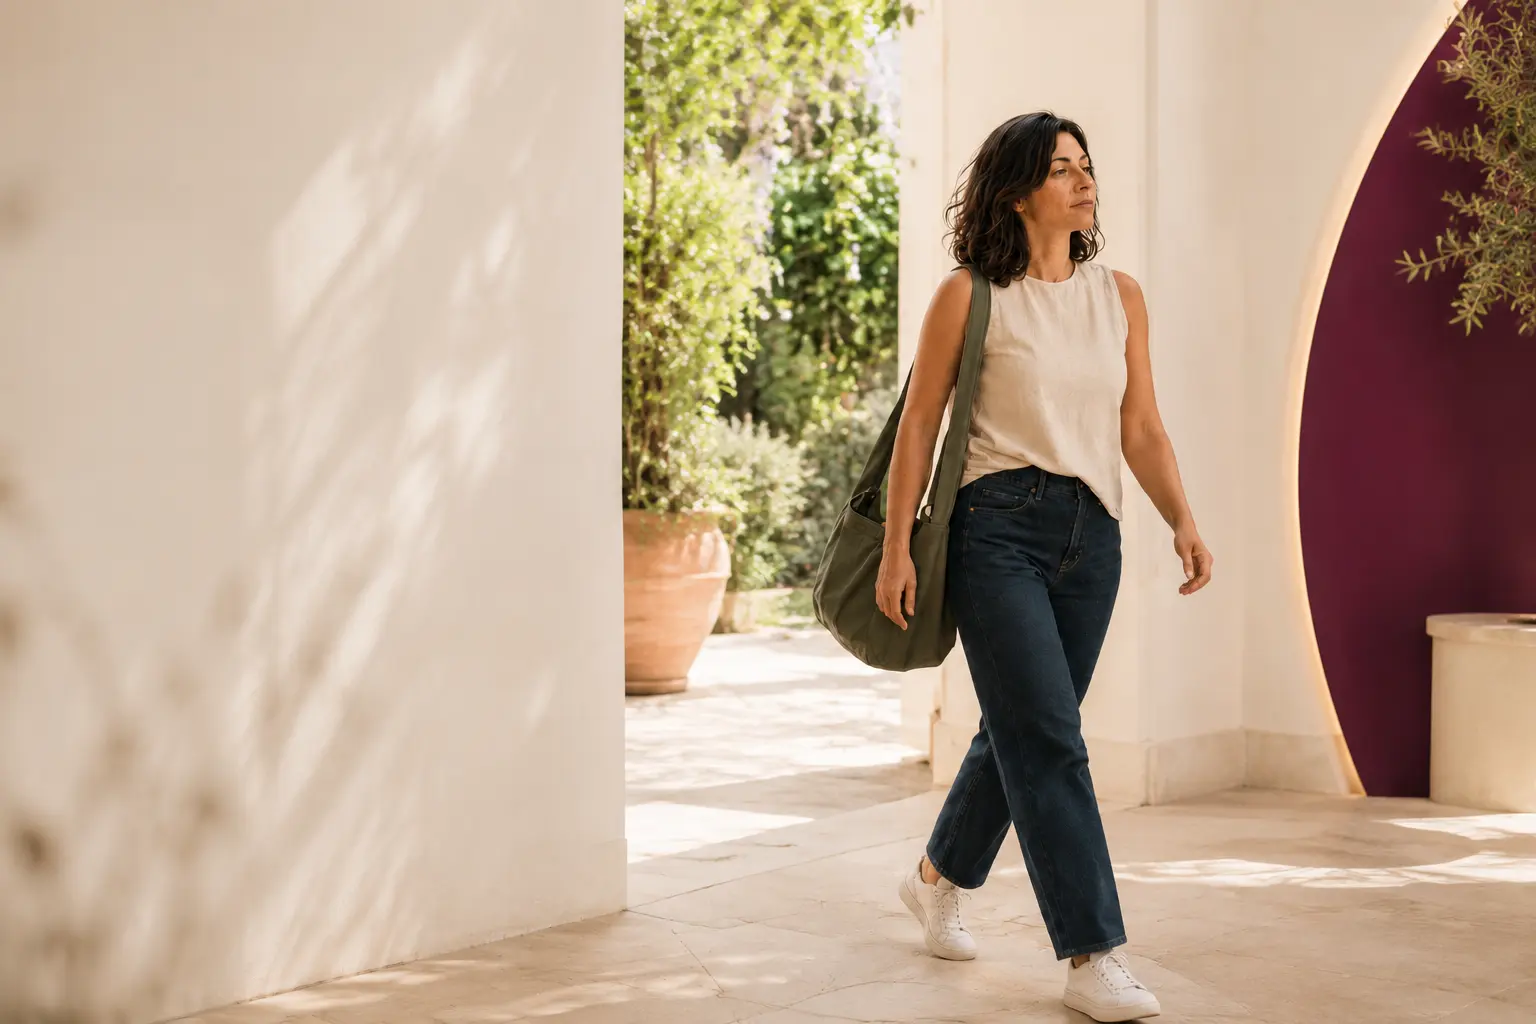
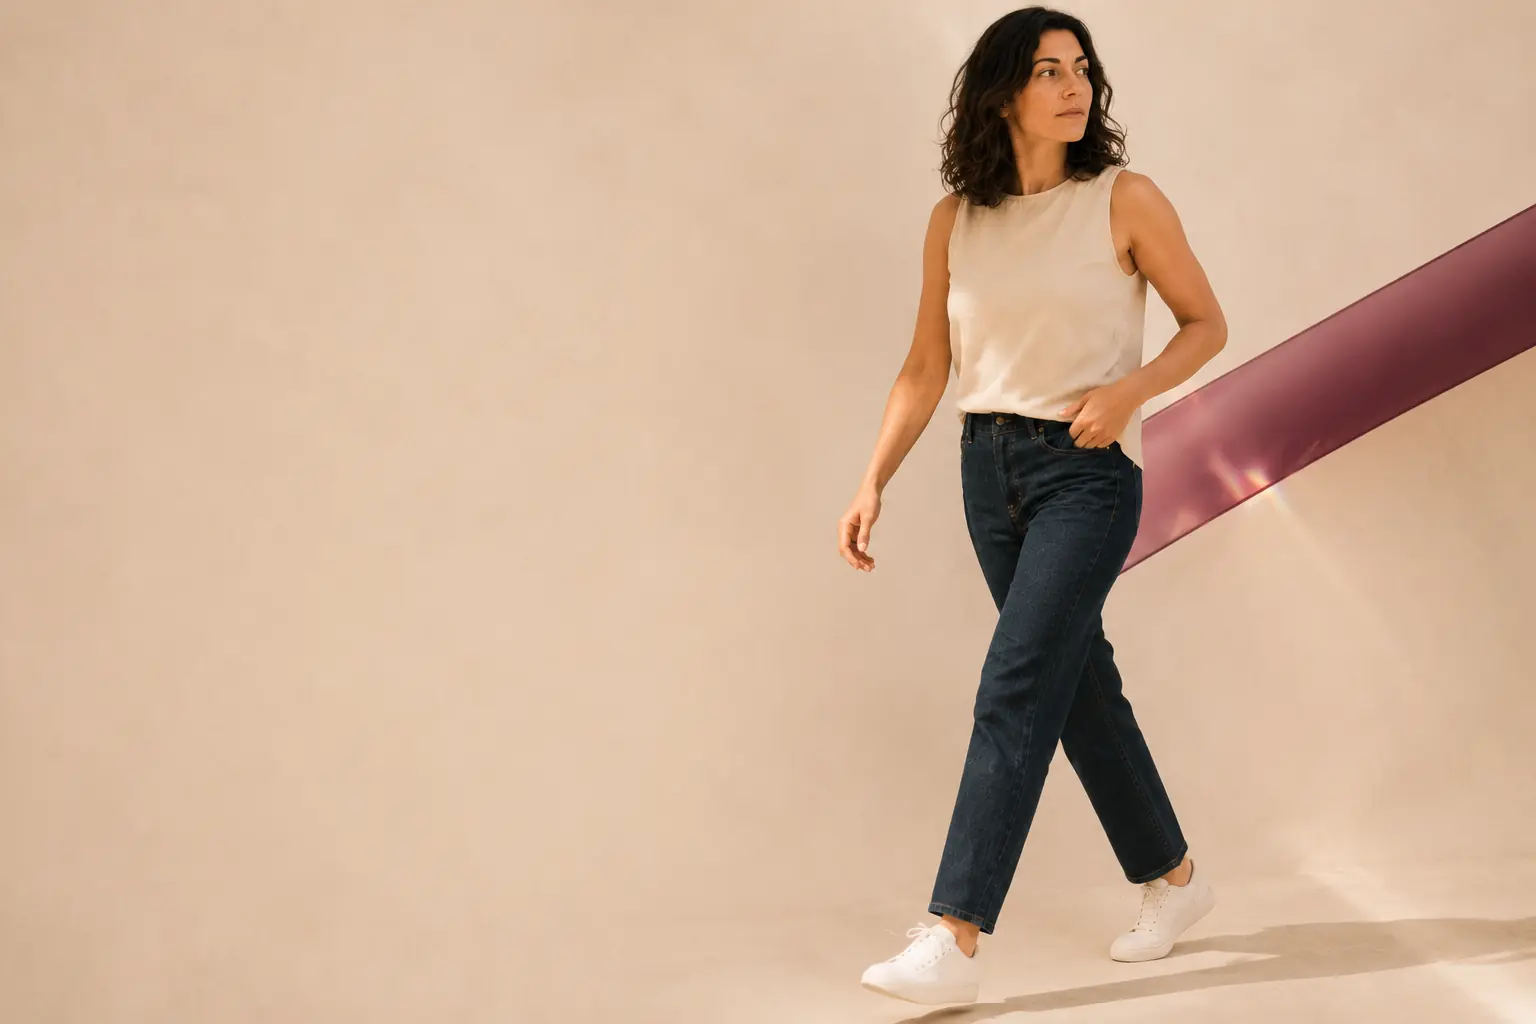
fix(site): make hero asset mapping deterministic

diff --git a/web-astro/src/pages/api/site-asset.ts b/web-astro/src/pages/api/site-asset.ts
@@ -1,7 +1,10 @@
 import type { APIRoute } from "astro";
 import { resolveAssetUrl } from "@/lib/rebel-r2/assets";
-import { resolveSlot } from "@/lib/rebel-r2/manifest";
-import { getSiteAssetFallback } from "@/lib/site-assets";
+import { headObject } from "@/lib/rebel-r2/client";
+import {
+  getSiteAssetFallback,
+  getSiteAssetR2Key,
+} from "@/lib/site-assets";
 
 export const prerender = false;
 
@@ -18,11 +21,14 @@ export const GET: APIRoute = async ({ request }) => {
 
   let target = fallback;
   let cacheControl = "public, max-age=3600, stale-while-revalidate=86400";
+  const exactR2Key = getSiteAssetR2Key(slot);
 
   try {
-    const resolved = await resolveSlot(slot);
-    if (resolved.selected) {
-      const remote = await resolveAssetUrl(resolved.selected.key);
+    if (exactR2Key) {
+      // Verify that the canonical object exists before redirecting. No fuzzy
+      // resolver is allowed in the public website delivery path.
+      await headObject(exactR2Key);
+      const remote = await resolveAssetUrl(exactR2Key);
       target = remote.url;
       if (remote.signed) {
         cacheControl = "private, max-age=240";
@@ -42,4 +48,3 @@ export const GET: APIRoute = async ({ request }) => {
     },
   });
 };
-

diff --git a/web-astro/src/lib/site-assets.ts b/web-astro/src/lib/site-assets.ts
@@ -68,3 +68,19 @@ export function getSiteAssetFallback(slot: string): string | null {
     : null;
 }
 
+const LOCAL_R2_PREFIX = "/img/rebel-r2/";
+
+/**
+ * Return the exact R2 object key paired with a verified local fallback.
+ *
+ * The website must never use fuzzy slot matching: a broad keyword such as
+ * "laser" can otherwise resolve an older manicure or technology image from
+ * the bucket. MCP discovery can remain flexible, while public page delivery
+ * stays deterministic.
+ */
+export function getSiteAssetR2Key(slot: string): string | null {
+  const fallback = getSiteAssetFallback(slot);
+  if (!fallback?.startsWith(LOCAL_R2_PREFIX)) return null;
+
+  return fallback.slice(LOCAL_R2_PREFIX.length);
+}
